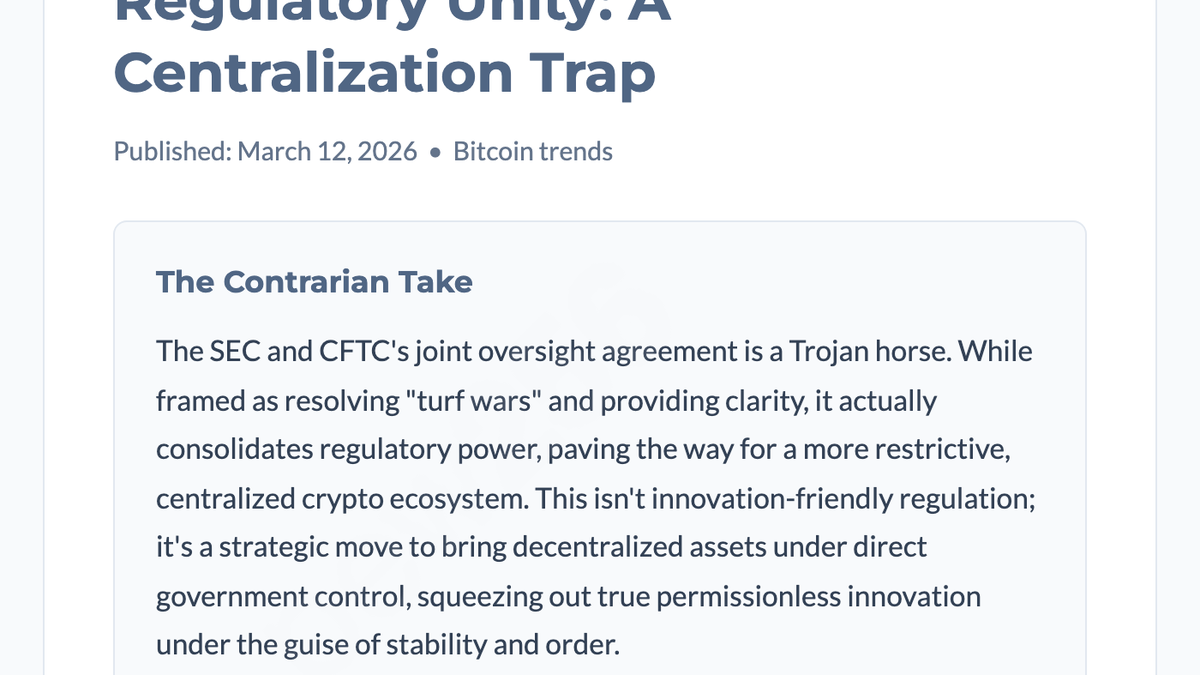
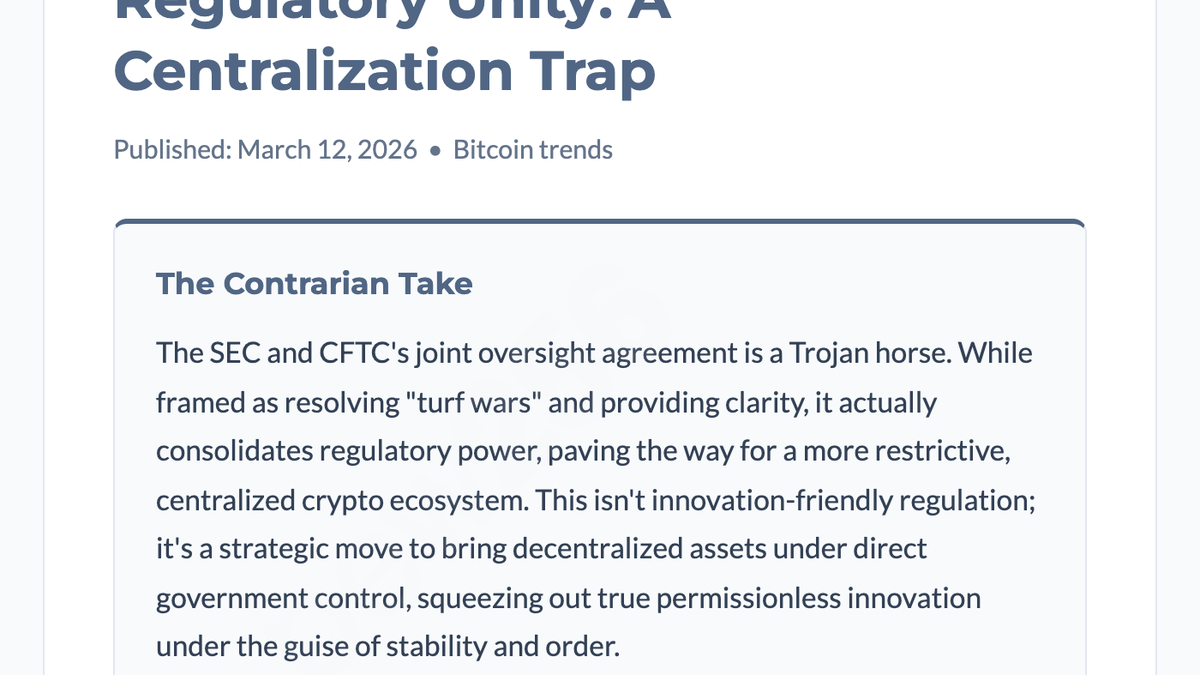
Fix file naming for single takes and API override bug while preserving blue styling

diff --git a/scripts/generate_diffusion_assets.py b/scripts/generate_diffusion_assets.py
@@ -156,7 +156,7 @@ def generate_html(formatted_date, project, subject, bull, bear, mode, is_square=
     }}
     .journal-content {{
         display: grid;
-        grid-template-columns: 1fr 1fr;
+        grid-template-columns: { '1fr' if mode in ['bull', 'bear'] else '1fr 1fr' };
         gap: 2rem;
     }}
     .single-column {{
@@ -236,8 +236,14 @@ def apply_diagonal_watermark(base_img):
     return base_img
 
 def process_image(timestamp, mode, raw_natural_path, raw_square_path):
-    # Prefix files with mode-timestamp
-    file_prefix = f"insight-{timestamp}" if mode == 'both' else f"{mode}-{timestamp}"
+    if mode == 'both':
+        file_prefix = f"insight-{timestamp}"
+    elif mode == 'bull':
+        file_prefix = f"pro-{timestamp}"
+    elif mode == 'bear':
+        file_prefix = f"con-{timestamp}"
+    else:
+        file_prefix = f"{mode}-{timestamp}"
     
     shares_dir = os.path.join(os.getcwd(), "assets/shares")
     journal_dir = os.path.join(os.getcwd(), "assets/journal")

diff --git a/server.py b/server.py
@@ -446,10 +446,8 @@ class AdminServer(SimpleHTTPRequestHandler):
             
             # publish_state is now a string: 'bull', 'bear', 'both', or 'none' (or boolean true/false for legacy)
             publish_state_raw = req.get('publish_state')
-            published_takes = publish_state_raw
-            if publish_state_raw is True:
-                published_takes = 'both'
-            elif publish_state_raw is False:
+            published_takes = req.get('published_takes', 'both')
+            if publish_state_raw is False or published_takes == 'none':
                 published_takes = 'none'
             
             pub_file = "assets/published_journal.json"
